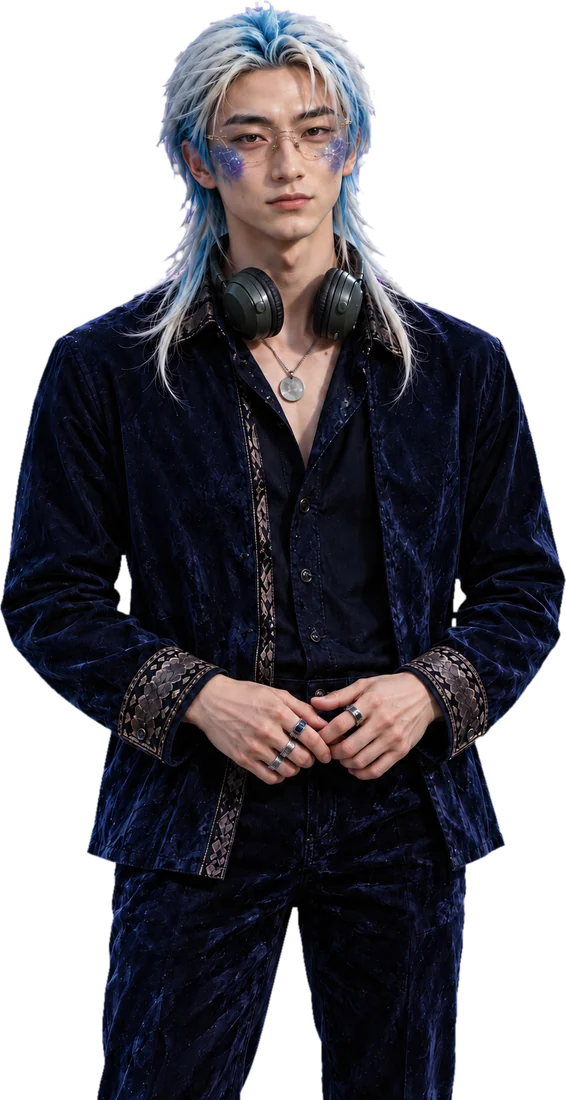
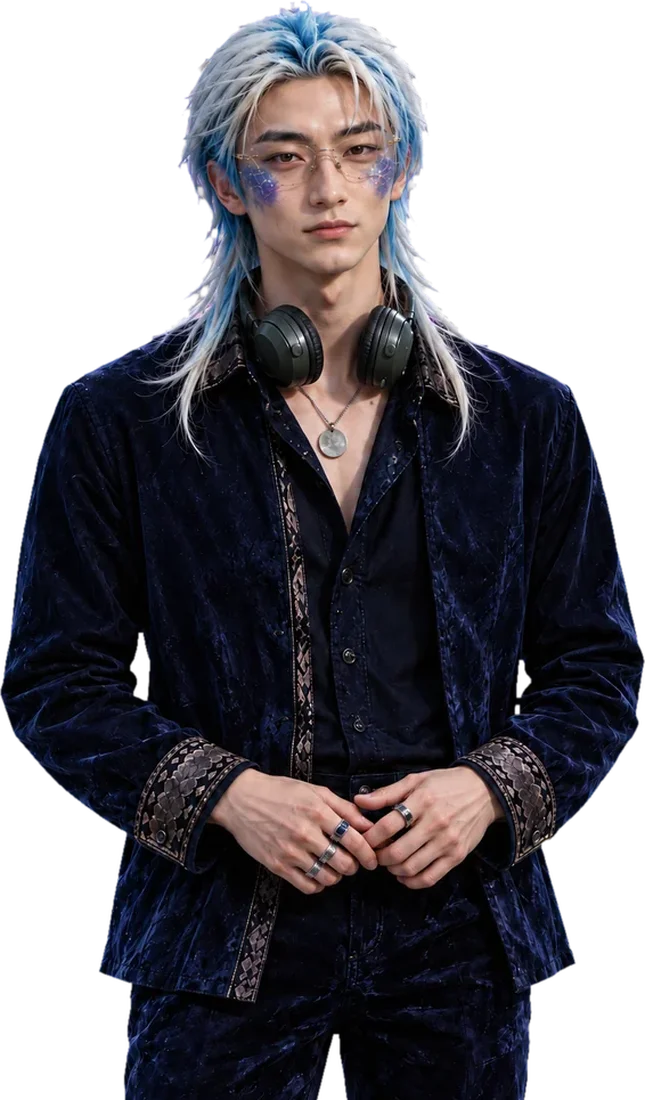
立繪統一取景與大小：每個角色頭的大小與高度一致

diff --git a/style.css b/style.css
@@ -346,7 +346,7 @@ h1 small { display: block; font-size: 18px; letter-spacing: .5em; color: var(--i
   background: linear-gradient(transparent 30%, rgba(0,0,0,.75) 75%); padding: 0 12px calc(16px + env(safe-area-inset-bottom)); }
 .dialog.on { display: flex; }
 /* 立繪：左右各一位，說話的人亮、另一位暗下來 */
-.vn { position: absolute; bottom: 150px; width: 70%; height: 62%; display: flex; align-items: flex-end; justify-content: center; pointer-events: none;
+.vn { position: absolute; bottom: 150px; width: 70%; height: 60%; display: flex; align-items: flex-end; justify-content: center; pointer-events: none;
   opacity: 0; transition: filter .25s, transform .25s, opacity .25s; }
 .vn-l { left: -8%; }
 .vn-r { right: -8%; }
@@ -354,6 +354,8 @@ h1 small { display: block; font-size: 18px; letter-spacing: .5em; color: var(--i
 .vn.on { z-index: 2; filter: drop-shadow(0 0 18px rgba(0,0,0,.6)); }
 .vn.off { z-index: 1; filter: brightness(.38) saturate(.6); transform: scale(.94); }
 .vn img { max-width: 100%; max-height: 100%; object-fit: contain; }
+/* 立繪一律依高度縮放（不受寬度限制），每個人的身形大小才會一致 */
+.vn.vn-pic img { height: 100%; width: auto; max-width: none; max-height: none; transform-origin: 50% 100%; transform: scale(var(--vs, 1)); }
 .vn.vn-pic img { -webkit-mask-image: linear-gradient(#000 82%, transparent); mask-image: linear-gradient(#000 82%, transparent); }
 .vn.card img { width: 100%; height: 100%; object-fit: cover; object-position: 50% 15%; border-radius: 16px 16px 0 0;
   -webkit-mask-image: linear-gradient(#000 70%, transparent); mask-image: linear-gradient(#000 70%, transparent); }

diff --git a/index.html b/index.html
@@ -4,7 +4,7 @@
 <meta charset="utf-8">
 <meta name="viewport" content="width=device-width, initial-scale=1, viewport-fit=cover, user-scalable=no">
 <title>黃泉燒肉店 轉珠試玩版</title>
-<link rel="stylesheet" href="style.css?v=19">
+<link rel="stylesheet" href="style.css?v=21">
 </head>
 <body>
 <div id="app">
@@ -86,11 +86,11 @@
     <button class="dlg-skip">略過 ››</button>
   </div>
 </div>
-<script src="data.js?v=19"></script>
-<script src="cards.js?v=19"></script>
-<script src="profiles.js?v=19"></script>
-<script src="story.js?v=19"></script>
-<script src="audio.js?v=19"></script>
-<script src="game.js?v=19"></script>
+<script src="data.js?v=21"></script>
+<script src="cards.js?v=21"></script>
+<script src="profiles.js?v=21"></script>
+<script src="story.js?v=21"></script>
+<script src="audio.js?v=21"></script>
+<script src="game.js?v=21"></script>
 </body>
 </html>

diff --git a/game.js b/game.js
@@ -144,6 +144,7 @@ function dialog(lines) {
         slot[side] = who; last = side;
         img.onerror = () => { if (p.fallback && img.getAttribute("src") !== p.fallback) { img.src = p.fallback; v.classList.remove("vn-pic"); v.classList.add("card"); } };
         if (img.getAttribute("src") !== p.src) img.src = p.src;
+        v.style.setProperty("--vs", (VN_SCALE[who] || 1));
         v.classList.toggle("vn-pic", p.kind === "vn"); v.classList.toggle("card", p.kind === "card"); v.classList.toggle("enemy", p.kind === "enemy");
         if (entering) { v.classList.remove("in"); void v.offsetWidth; v.classList.add("in"); }
         $$(".vn", D).forEach(x => { const s = x.classList.contains("vn-l") ? "l" : "r"; x.classList.toggle("on", !!slot[s] && s === side); x.classList.toggle("off", !!slot[s] && s !== side); });

diff --git a/story.js b/story.js
@@ -103,4 +103,6 @@ window.CHAPTERS = [
 ];
 
 /* 劇情立繪代號（art/vn/ 底下的檔名開頭） */
+/* 立繪大小微調：鼠軍師是倉鼠，畫得比人小一點 */
+window.VN_SCALE = { "鼠軍師": .78 };
 window.VN = { "語彤": "yutong", "李國志": "lee", "林伯伯": "linbobo", "王柏宏": "bohong", "月老": "yuelao", "鼠軍師": "rat", "利維坦": "leviathan" };

diff --git a/tools/vn_norm.py b/tools/vn_norm.py
@@ -1,0 +1,18 @@
+"""立繪統一取景：從頭頂往下裁到「頭長 × 4.5」，每個角色的頭大小與位置才一致。
+原檔在 work/vn/full/，輸出覆蓋 art/vn/。用法：.venv/bin/python -I tools/vn_norm.py
+HEAD：每個角色的頭長占整張高度的比例（頭頂到下巴，依 normal 圖量測）；None 表示不裁（鼠軍師是整隻倉鼠）。"""
+from pathlib import Path
+from PIL import Image
+root = Path(__file__).resolve().parent.parent
+HEAD = {"bohong": .175, "lee": .245, "leviathan": .195, "linbobo": .208, "yuelao": .208, "yutong": .15, "rat": None}
+N = 4.5
+for src in sorted((root / "work/vn/full").glob("*.webp")):
+    key = src.stem.rsplit("-", 1)[0]
+    im = Image.open(src)
+    if HEAD.get(key):
+        top = im.split()[-1].getbbox()[1]
+        h = min(im.height, top + round(im.height * HEAD[key] * N))
+        im = im.crop((0, top, im.width, h))
+        im = im.resize((round(im.width * 1100 / im.height), 1100), Image.LANCZOS)
+    im.save(root / "art/vn" / src.name, quality=85)
+    print(src.name, im.size)

diff --git a/README.md b/README.md
@@ -15,7 +15,7 @@
 | `cards.js` | 第二批 45 位角色的卡片（稱號、屬性、技能、生圖描述） |
 | `profiles.js` | 自動產生（`node tools/gen_profiles.js > profiles.js`）：新角色的故事與資料，取自資料館 |
 | `story.js` | 三章劇情、對話、波次與新敵人；`VN` 是立繪代號 |
-| `tools/vn_prompts.sh` `tools/vn_queue.sh` `tools/vn_cut.py` | 劇情立繪：洋紅底生圖（同角色其他表情拿 normal 當參考）→ 去背成 `art/vn/<代號>-<表情>.webp` |
+| `tools/vn_prompts.sh` `tools/vn_queue.sh` `tools/vn_cut.py` `tools/vn_norm.py` | 劇情立繪：洋紅底生圖（同角色其他表情拿 normal 當參考）→ 去背 → 統一取景（頭頂往下 4.5 個頭長），輸出 `art/vn/<代號>-<表情>.webp` |
 | `tools/queue.js` `tools/run_queue.py` | 產生生圖佇列、平行生圖（已有的跳過） |
 | `data.js` | 屬性、系列、卡片數值與技能、敵人、關卡、角色檔案（背景故事、別名、登場集數、關係、台詞） |
 | `art/` | 卡面、敵人（GPT 依劇照重繪）、符石 `orb-*`（GPT 生成後去背）、`av/` 預定角色頭像 |
